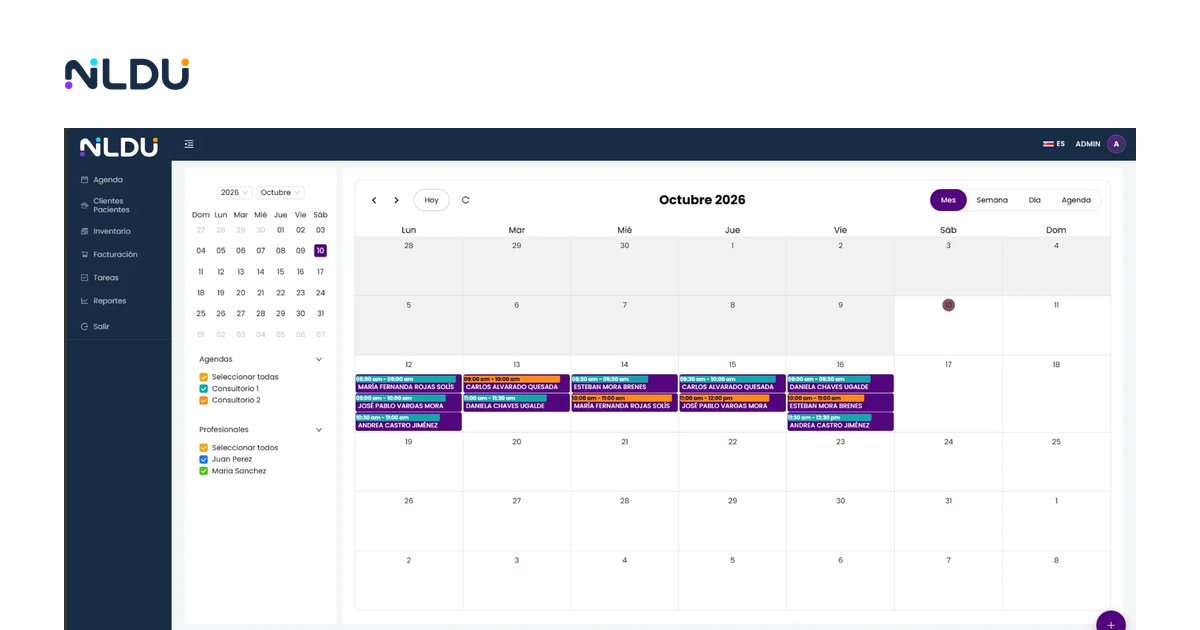
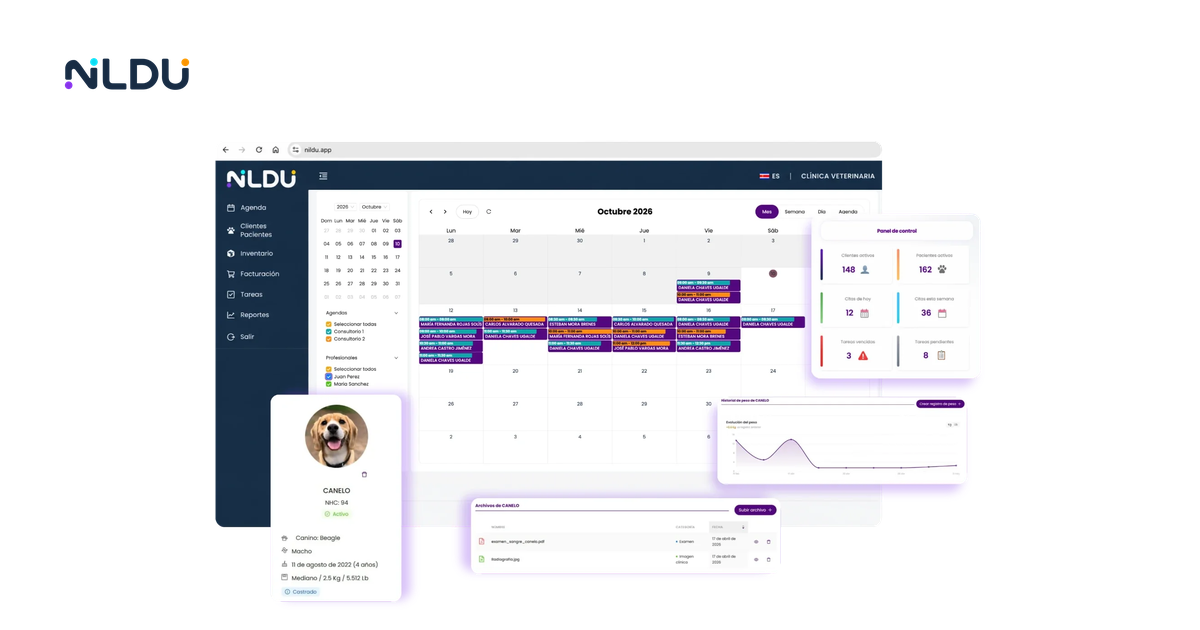
Use Steve's composed hero image instead of layered cards

diff --git a/src/components/HeroSection.tsx b/src/components/HeroSection.tsx
@@ -1,14 +1,5 @@
-import agendaMes from "@/assets/screens/hero/agenda-mes.webp";
-import ficha from "@/assets/screens/hero/ficha.webp";
-import peso from "@/assets/screens/hero/peso.webp";
-import archivos from "@/assets/screens/hero/archivos.webp";
-import citas from "@/assets/screens/hero/citas.webp";
+import hero from "@/assets/screens/hero/hero.webp";
 import { primaryButton } from "@/lib/styles";
-import BrowserFrame from "./BrowserFrame";
-import { LoopArrow, Sparks } from "./Doodles";
-
-// Recortes reales del portal que flotan sobre la agenda. Solo en md+; en celular se ve únicamente la agenda.
-const flotante = "absolute hidden overflow-hidden rounded-xl border border-line bg-white shadow-[0_1px_2px_rgba(23,44,68,0.08),0_16px_40px_rgba(23,44,68,0.16)] md:block";
 
 const HeroSection = () => (
   <section id="inicio" className="scroll-mt-20">
@@ -31,27 +22,13 @@ const HeroSection = () => (
         </div>
       </div>
 
-      <div className="mx-auto mt-14 max-w-[1040px] md:pb-24">
-        <div className="relative md:mx-[11%]">
-          <BrowserFrame src={agendaMes} alt="Agenda mensual de Nildu con las citas de dos consultorios" url="nildu.app" eager={true} width={1600} height={766} />
-          {/* Posiciones en % del marco, según el boceto de Steve. */}
-          <figure className={`${flotante} left-[6.5%] top-[64%] w-[16.7%]`}>
-            <img src={ficha} alt="Ficha del paciente Canelo: especie, sexo, edad y peso" width={398} height={633} loading="lazy" decoding="async" className="block h-auto w-full" />
-          </figure>
-          <figure className={`${flotante} left-[34%] top-[61%] w-[36%]`}>
-            <img src={citas} alt="Citas de Canelo con su dueña, filtradas por periodo" width={600} height={447} loading="lazy" decoding="async" className="block h-auto w-full" />
-          </figure>
-          <figure className={`${flotante} left-[78%] top-[53%] w-[32%]`}>
-            <img src={peso} alt="Evolución del peso de Canelo con su curva" width={720} height={197} loading="lazy" decoding="async" className="block h-auto w-full" />
-          </figure>
-          <figure className={`${flotante} left-[80%] top-[76%] w-[30%]`}>
-            <img src={archivos} alt="Archivos de Canelo: examen de sangre y radiografía" width={760} height={229} loading="lazy" decoding="async" className="block h-auto w-full" />
-          </figure>
-          <LoopArrow className="absolute bottom-[37%] left-[1%] hidden w-12 -scale-x-100 text-dot-cyan md:block lg:w-16" />
-          <Sparks className="absolute bottom-[50%] left-[105%] hidden w-8 rotate-12 text-dot-gold md:block" />
-          <Sparks className="absolute left-[104%] top-[95%] hidden w-8 text-dot-violet md:block" />
-        </div>
-      </div>
+      <img
+        src={hero}
+        alt="Nildu con la agenda de octubre, el panel de control, la ficha de Canelo, su curva de peso y sus archivos"
+        width={1700}
+        height={1038}
+        className="mx-auto mt-14 block h-auto w-full max-w-[1040px]"
+      />
     </div>
   </section>
 );

diff --git a/scripts/hero-screens.py b/scripts/hero-screens.py
@@ -14,12 +14,8 @@ OUT = SCREENS / "hero"
 
 # (archivo origen, carpeta destino, archivo destino, recorte (izq, arriba, der, abajo) o None, ancho final, calidad WebP)
 JOBS = [
-    ("hero-agenda-mes.webp", OUT, "agenda-mes.webp", (0, 38, 2000, 995), 1600, 84),
-    ("flotante-ficha-canelo.png", OUT, "ficha.webp", None, 398, 84),
-    ("flotante-peso-canelo.png", OUT, "peso.webp", (23, 123, 1517, 531), 720, 84),
-    ("flotante-archivos-canelo.png", OUT, "archivos.webp", (27, 14, 1114, 341), 760, 84),
-    # Citas de Canelo con la dueña demo (Daniela). Nunca uses flotante-citas-canelo-original.png: trae un nombre real.
-    ("flotante-citas-canelo.png", OUT, "citas.webp", (0, 4, 656, 493), 600, 84),
+    # Hero: composición armada por Steve (agenda, panel, ficha, peso y archivos) con fondo transparente; se recorta al contenido.
+    ("hero-compuesto.webp", OUT, "hero.webp", (192, 62, 1892, 1100), 1700, 84),
     # Pestaña Agenda de la sección de módulos: sin recorte, a 1440 de ancho, como consulta.webp y fiscal.webp.
     ("modulo-agenda-semana.png", SCREENS / "modulos", "agenda.webp", None, 1440, 82),
     # Inventario: Existencias del demo, sin la barra de scroll de la derecha.
@@ -34,7 +30,8 @@ JOBS = [
 def main() -> None:
     for src, out_dir, dst, box, width, quality in JOBS:
         out_dir.mkdir(parents=True, exist_ok=True)
-        img = Image.open(SRC / src).convert("RGB")
+        img = Image.open(SRC / src)
+        img = img.convert("RGBA" if img.mode == "RGBA" else "RGB")
         if box is not None:
             img = img.crop(box)
         if img.width > width:
@@ -47,9 +44,9 @@ def main() -> None:
     mark = Image.open(ROOT / "src" / "assets" / "brand" / "wordmark.png").convert("RGBA")
     mark = mark.resize((round(mark.width * 44 / mark.height), 44), Image.LANCZOS)
     og.paste(mark, (64, 52), mark)
-    shot = Image.open(OUT / "agenda-mes.webp").convert("RGB")
-    shot = shot.resize((1072, round(shot.height * 1072 / shot.width)), Image.LANCZOS)
-    og.paste(shot.crop((0, 0, 1072, 502)), (64, 128))
+    shot = Image.open(OUT / "hero.webp").convert("RGBA")
+    shot.thumbnail((1072, 470), Image.LANCZOS)
+    og.paste(shot, ((1200 - shot.width) // 2, 140), shot)
     og.save(ROOT / "public" / "og.png", optimize=True)
     print(f"og.png: {(ROOT / 'public' / 'og.png').stat().st_size // 1024} KB")
 

diff --git a/README.md b/README.md
@@ -32,7 +32,7 @@ pnpm typecheck && pnpm lint && pnpm test && pnpm build
 
 Las capturas salen del portal de QA con la clínica demo.
 
-- Hero (agenda mensual y tres recortes flotantes): las fuentes van en `capturas/` (ignorada por git) y se procesan con
+- Hero (una sola imagen compuesta, `capturas/hero-compuesto.webp`) y pestañas de módulos: las fuentes van en `capturas/` (ignorada por git) y se procesan con
   `python scripts/hero-screens.py`, que también genera `public/og.png`.
 - Sección de flujo: a 1440×778, como PNG (`consulta.png`, `caja.png`, `fiscal.png`) en una carpeta, y luego:
 
